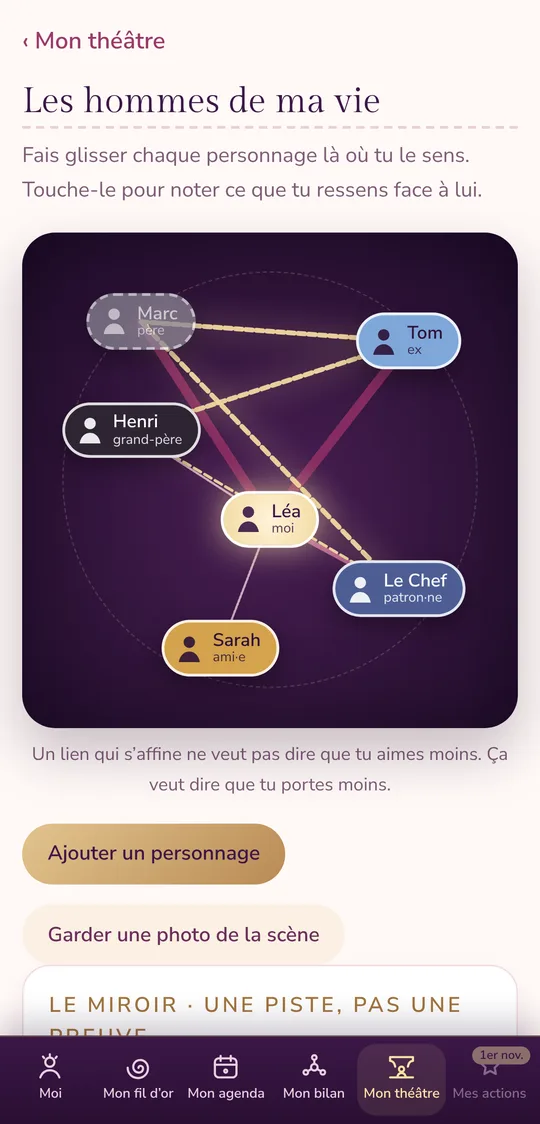
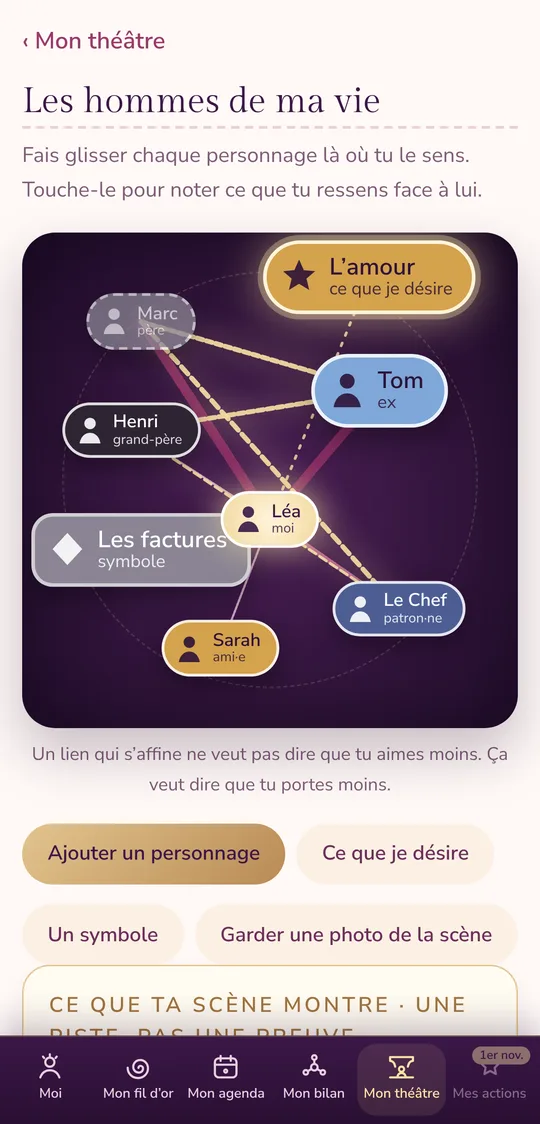
Mon théâtre : ce que je désire, mes symboles, la place que chacun prend, et ce que la scène montre (#432)
- « Ce que je désire » (l'amour, la paix…) : une étoile sur la scène, reliée à elle par un chemin doré
- « Un symbole » qu'elle écrit (la peur, les factures, les impôts…), placé et dimensionné comme elle le sent
- « La place que ça prend » : petite, moyenne, grande, très grande, pour tous les éléments (gardée dans les photos)
- « Ce que ta scène montre » : ce qui se trouve entre elle et son désir, ce qui prend le plus de place, ce qui est tout près, les liens les plus lourds ; et « Entre ce que tu veux et ce que tu vis, qu'est-ce que ta scène te dit ? », qui rejoint le schéma
- Exemple de Léa : l'amour, loin, avec Tom sur le chemin ; les factures, lourdes

Claude-Session: https://claude.ai/code/session_01Jp8dGRbiouwYvgxCdYEgCU

diff --git a/assets/pass.js b/assets/pass.js
@@ -160,8 +160,10 @@
           { id: 'pt2', nom: 'Henri', qui: 'lignee', cle: 'a:p5', couleur: '#2E2433', symptomes: ['Froid', 'Distant'] },
           { id: 'pt3', nom: 'Tom', qui: 'vie', role: 'Ex', genre: 'm', couleur: '#7FA7D9', symptomes: ['Froid', 'Qui part', 'Les hommes finissent toujours par partir'] },
           { id: 'pt4', nom: 'Le Chef', qui: 'vie', role: 'Patron·ne', genre: 'm', couleur: '#4E5D94', symptomes: ['Froid', 'Qui juge'] },
-          { id: 'pt5', nom: 'Sarah', qui: 'vie', role: 'Ami·e', genre: 'f', couleur: '#D4A24C', symptomes: ['Qui protège'] }],
-        scenes: [{ id: 'sn1', titre: 'Les hommes de ma vie', schema: 's1', cree: il(30), moi: { x: 50, y: 58 }, places: { pt1: { x: 24, y: 18, dos: true, poids: 'lourd' }, pt2: { x: 22, y: 40, poids: 'leger' }, pt3: { x: 78, y: 22, poids: 'lourd' }, pt4: { x: 76, y: 72, poids: 'present' }, pt5: { x: 40, y: 84, poids: 'leger' } },
+          { id: 'pt5', nom: 'Sarah', qui: 'vie', role: 'Ami·e', genre: 'f', couleur: '#D4A24C', symptomes: ['Qui protège'] },
+          { id: 'pt6', nom: 'L’amour', type: 'desir', couleur: '#D4A24C', symptomes: [] },
+          { id: 'pt7', nom: 'Les factures', type: 'symbole', couleur: '#8A8494', symptomes: [] }],
+        scenes: [{ id: 'sn1', titre: 'Les hommes de ma vie', schema: 's1', cree: il(30), moi: { x: 50, y: 58 }, places: { pt1: { x: 24, y: 18, dos: true, poids: 'lourd' }, pt2: { x: 22, y: 40, poids: 'leger' }, pt3: { x: 72, y: 32, poids: 'lourd', taille: '3' }, pt4: { x: 76, y: 76, poids: 'present' }, pt5: { x: 40, y: 84, poids: 'leger' }, pt6: { x: 70, y: 9, taille: '3' }, pt7: { x: 24, y: 64, taille: '3', poids: 'lourd' } },
           ressentis: { pt1: 'Je l’attends encore, comme sur le quai.', pt3: 'Il est loin, et je cours après lui.' }, devient: { pt1: ['La Petite fille', 'Gorge serrée'], pt3: ['Je cours après', 'Je donne tout'] }, filsVus: ['pt1|pt3', 'pt1|pt4', 'pt2|pt3', 'pt2|pt4'],
           photos: [{ date: il(30), moi: { x: 50, y: 60 }, places: { pt1: { x: 42, y: 40, poids: 'lourd' }, pt2: { x: 20, y: 40, poids: 'present' }, pt3: { x: 60, y: 44, poids: 'lourd' }, pt4: { x: 70, y: 70, poids: 'lourd' } }, note: 'Tout le monde est collé à moi.' }] }] };
       D.etat.notesJour = {}; D.etat.notesJour[il(4)] = { corps: ['La gorge'], sens: ['Serré'], pense: 'Elle va encore annuler' };
@@ -1723,7 +1725,13 @@
   function clair(c) { var h = String(c || '').replace('#', ''); if (h.length !== 6) return false; var r = parseInt(h.slice(0, 2), 16), g = parseInt(h.slice(2, 4), 16), b = parseInt(h.slice(4, 6), 16); return (r * 299 + g * 587 + b * 114) / 1000 > 160; }
   function genreDe(p) { if (p.qui === 'lignee' && p.cle && personne(p.cle)) return personne(p.cle).f ? 'f' : 'm'; return p.genre || ''; }
   function leLa(p) { var g = genreDe(p); return g === 'f' ? 'la' : g === 'm' ? 'le' : 'le ou la'; }
-  function lienPerso(p) { if (p.qui === 'lignee') { var q = p.cle ? personne(p.cle) : null; return q ? q.lien.replace(/^(Ton|Ta) /, '').toLowerCase() : 'ma lignée'; } return String(p.role || 'ma vie').toLowerCase(); }
+  /* Sur la scène, en plus des personnages : ce qu'elle désire (« L'amour ») et ses symboles (« La peur », « Les factures ») */
+  var TAILLES = [['1', 'Petite', .8], ['2', 'Moyenne', 1], ['3', 'Grande', 1.3], ['4', 'Très grande', 1.65]];
+  var T_DESIRS = ['L’amour', 'La paix', 'La sécurité', 'La liberté', 'L’abondance', 'Un foyer', 'La confiance', 'Ma place', 'Mon projet', 'La joie'];
+  var T_SYMBOLES = ['La peur', 'Les factures', 'Les impôts', 'L’argent', 'Le travail', 'Le temps', 'La solitude', 'Le regard des autres', 'Le passé', 'La colère'];
+  function typeDe(p) { return p && (p.type === 'desir' || p.type === 'symbole') ? p.type : 'perso'; }
+  function tailleDe(pl) { var t = TAILLES.filter(function (x) { return x[0] === String((pl && pl.taille) || '2'); })[0]; return t ? t[2] : 1; }
+  function lienPerso(p) { if (typeDe(p) === 'desir') return 'ce que je désire'; if (typeDe(p) === 'symbole') return 'symbole'; if (p.qui === 'lignee') { var q = p.cle ? personne(p.cle) : null; return q ? q.lien.replace(/^(Ton|Ta) /, '').toLowerCase() : 'ma lignée'; } return String(p.role || 'ma vie').toLowerCase(); }
   /* « ton père », « ta patronne », « ton ex » */
   function lienTon(p) {
     if (p.qui === 'lignee') { var q = p.cle ? personne(p.cle) : null; return q ? q.lien.toLowerCase() : 'quelqu’un de ta lignée'; }
@@ -1750,20 +1758,38 @@
     if (d.ph.length) t += ' Chez les deux, tu retrouves « ' + d.ph.join(' », « ') + ' ».';
     return t;
   }
+  var ICONES_T = { perso: '<circle cx="8" cy="4.5" r="3"/><path d="M2.5 15c.6-3.6 2.8-5.6 5.5-5.6s4.9 2 5.5 5.6z"/>', desir: '<path d="M8 1.2l1.9 4.3 4.6.4-3.5 3 1.1 4.6L8 11l-4.1 2.5 1.1-4.6-3.5-3 4.6-.4z"/>', symbole: '<path d="M8 1.5l6 6.5-6 6.5-6-6.5z"/>' };
   function bulleT(p, pl, sel) {
-    var c = p.couleur || '#6B2F5B';
-    return '<button type="button" class="pa-bulle' + (pl.dos ? ' dos' : '') + (sel ? ' sel' : '') + '" data-bulle="' + esc(p.id) + '" style="left:' + pl.x + '%;top:' + pl.y + '%;background:' + c + ';color:' + (clair(c) ? '#2E1338' : '#fff') + '" aria-label="' + esc(p.nom + ', ' + lienPerso(p)) + '"><svg viewBox="0 0 16 16" aria-hidden="true"><circle cx="8" cy="4.5" r="3"/><path d="M2.5 15c.6-3.6 2.8-5.6 5.5-5.6s4.9 2 5.5 5.6z"/></svg><span><b>' + esc(p.nom) + '</b><small>' + esc(lienPerso(p)) + '</small></span></button>';
+    var c = p.couleur || '#6B2F5B', ty = typeDe(p);
+    return '<button type="button" class="pa-bulle t-' + ty + (pl.dos ? ' dos' : '') + (sel ? ' sel' : '') + '" data-bulle="' + esc(p.id) + '" style="left:' + pl.x + '%;top:' + pl.y + '%;--t:' + tailleDe(pl) + ';background:' + c + ';color:' + (clair(c) ? '#2E1338' : '#fff') + '" aria-label="' + esc(p.nom + ', ' + lienPerso(p)) + '"><svg viewBox="0 0 16 16" aria-hidden="true">' + ICONES_T[ty] + '</svg><span><b>' + esc(p.nom) + '</b><small>' + esc(lienPerso(p)) + '</small></span></button>';
+  }
+  /* Ce que la scène montre : entre elle et ce qu'elle désire, qui prend le plus de place, qui est collé à elle */
+  function lectureScene(sc) {
+    var l = [], ids = Object.keys(sc.places).filter(persoT), m = sc.moi;
+    function dist(a, b) { return Math.sqrt(Math.pow(a.x - b.x, 2) + Math.pow(a.y - b.y, 2)); }
+    ids.filter(function (k) { return typeDe(persoT(k)) === 'desir'; }).forEach(function (k) {
+      var D0 = persoT(k), d = sc.places[k], dd = dist(m, d), entre = [];
+      ids.forEach(function (j) { if (j === k) return; var q = sc.places[j], vx = d.x - m.x, vy = d.y - m.y, L2 = vx * vx + vy * vy || 1, t = ((q.x - m.x) * vx + (q.y - m.y) * vy) / L2; if (t <= .08 || t >= .95) return; var px = m.x + t * vx, py = m.y + t * vy; if (dist(q, { x: px, y: py }) < 11 + 4 * tailleDe(q)) entre.push(persoT(j)); });
+      l.push((dd < 25 ? D0.nom + ' est près de toi.' : dd > 45 ? D0.nom + ' est loin de toi.' : D0.nom + ' est à mi-chemin.') + (entre.length ? ' Entre toi et ' + petit(D0.nom) + ', il y a ' + liste(entre.map(function (x) { return x.nom + (typeDe(x) === 'perso' ? ' (' + lienTon(x) + ')' : ''); })) + '.' : ''));
+    });
+    var gros = ids.filter(function (k) { return tailleDe(sc.places[k]) >= 1.3; }).sort(function (a, b) { return tailleDe(sc.places[b]) - tailleDe(sc.places[a]); });
+    if (gros.length) l.push(liste(gros.slice(0, 3).map(function (k) { return persoT(k).nom; })) + (gros.length > 1 ? ' prennent' : ' prend') + ' beaucoup de place sur ta scène.');
+    var colles = ids.filter(function (k) { return typeDe(persoT(k)) !== 'desir' && dist(m, sc.places[k]) < 20; });
+    if (colles.length) l.push('Tout près de toi : ' + liste(colles.map(function (k) { return persoT(k).nom; })) + '.');
+    var lourds = ids.filter(function (k) { return sc.places[k].poids === 'lourd'; });
+    if (lourds.length) l.push('Le lien le plus lourd : ' + liste(lourds.map(function (k) { return persoT(k).nom; })) + '.');
+    return l;
   }
   /* Les liens de toi à chacun (épaisseur = ce que ça pèse), et les fils dorés du miroir */
   function svgLiens(sc) {
     var s = '<svg class="pa-fils" viewBox="0 0 100 100" preserveAspectRatio="none" aria-hidden="true">';
-    Object.keys(sc.places).forEach(function (k) { var pl = sc.places[k], P = poidsDe(pl.poids); if (!persoT(k)) return; s += '<line class="lien" data-lien="' + esc(k) + '" x1="' + sc.moi.x + '" y1="' + sc.moi.y + '" x2="' + pl.x + '" y2="' + pl.y + '" style="stroke:' + P[3] + ';stroke-width:' + P[2] + 'px' + (P[4] ? ';stroke-dasharray:' + P[4] : '') + '"/>'; });
+    Object.keys(sc.places).forEach(function (k) { var pl = sc.places[k], P = poidsDe(pl.poids), pp = persoT(k); if (!pp) return; if (typeDe(pp) === 'desir') { s += '<line class="lien chemin" data-lien="' + esc(k) + '" x1="' + sc.moi.x + '" y1="' + sc.moi.y + '" x2="' + pl.x + '" y2="' + pl.y + '"/>'; return; } s += '<line class="lien" data-lien="' + esc(k) + '" x1="' + sc.moi.x + '" y1="' + sc.moi.y + '" x2="' + pl.x + '" y2="' + pl.y + '" style="stroke:' + P[3] + ';stroke-width:' + P[2] + 'px' + (P[4] ? ';stroke-dasharray:' + P[4] : '') + '"/>'; });
     if (!sc.sansFils) filsDores(sc).forEach(function (f) { var a = sc.places[f.a], b = sc.places[f.b], w = Math.max(poidsDe(a.poids)[2], poidsDe(b.poids)[2]); s += '<line class="or' + (sc.filNouveau === f.cle ? ' nouveau' : '') + '" pathLength="100" data-fil-a="' + esc(f.a) + '" data-fil-b="' + esc(f.b) + '" x1="' + a.x + '" y1="' + a.y + '" x2="' + b.x + '" y2="' + b.y + '" style="stroke-width:' + Math.max(2, w * .5) + 'px"/>'; });
     return s + '</svg>';
   }
   function miniScene(moi, places) {
     var ks = Object.keys(places || {});
-    return '<svg class="pa-mini-sc" viewBox="0 0 100 100" aria-hidden="true"><rect x="0" y="0" width="100" height="100" rx="8"/>' + (moi ? ks.map(function (k) { var x = places[k], P = poidsDe(x.poids); return persoT(k) ? '<line x1="' + moi.x + '" y1="' + moi.y + '" x2="' + x.x + '" y2="' + x.y + '" stroke="' + P[3] + '" stroke-width="' + (P[2] / 2.2) + '"' + (P[4] ? ' stroke-dasharray="2 3"' : '') + '/>' : ''; }).join('') : '') + ks.map(function (k) { var p = persoT(k), x = places[k]; return p ? '<circle cx="' + x.x + '" cy="' + x.y + '" r="5" fill="' + (p.couleur || '#6B2F5B') + '"/>' : ''; }).join('') + (moi ? '<circle cx="' + moi.x + '" cy="' + moi.y + '" r="6" fill="#F2D9A0" stroke="#fff" stroke-width="1.5"/>' : '') + '</svg>';
+    return '<svg class="pa-mini-sc" viewBox="0 0 100 100" aria-hidden="true"><rect x="0" y="0" width="100" height="100" rx="8"/>' + (moi ? ks.map(function (k) { var x = places[k], P = poidsDe(x.poids); return persoT(k) ? '<line x1="' + moi.x + '" y1="' + moi.y + '" x2="' + x.x + '" y2="' + x.y + '" stroke="' + P[3] + '" stroke-width="' + (P[2] / 2.2) + '"' + (P[4] ? ' stroke-dasharray="2 3"' : '') + '/>' : ''; }).join('') : '') + ks.map(function (k) { var p = persoT(k), x = places[k], r = 5 * tailleDe(x); return !p ? '' : typeDe(p) === 'symbole' ? '<rect x="' + (x.x - r) + '" y="' + (x.y - r) + '" width="' + 2 * r + '" height="' + 2 * r + '" transform="rotate(45 ' + x.x + ' ' + x.y + ')" fill="' + (p.couleur || '#6B2F5B') + '"/>' : '<circle cx="' + x.x + '" cy="' + x.y + '" r="' + r + '" fill="' + (p.couleur || '#6B2F5B') + '"' + (typeDe(p) === 'desir' ? ' stroke="#FFF4DA" stroke-width="1.5"' : '') + '/>'; }).join('') + (moi ? '<circle cx="' + moi.x + '" cy="' + moi.y + '" r="6" fill="#F2D9A0" stroke="#fff" stroke-width="1.5"/>' : '') + '</svg>';
   }
   function placeLibre(sc) { var n = Object.keys(sc.places).length, ang = n * 2.4 + .6; return { x: Math.round(50 + 30 * Math.cos(ang)), y: Math.round(50 + 30 * Math.sin(ang)), poids: 'present' }; }
   var choixT = '', photoApres = '', protoPerso = null;
@@ -1773,7 +1799,7 @@
       h = '<h1 class="pa-h1">Mon théâtre</h1><p class="pa-sous">Les personnages qui se rejouent dans ta vie. Place-les sur la scène, autour de toi, là où tu les sens.</p>';
       if (!(D.etat.vu || {}).theatre) h += '<section class="pa-carte pa-intro"><p><b>Comment ça marche.</b> Tu crées une scène, puis tes personnages : des personnes de ta lignée et des personnes de ta vie (ton patron, une amie, ton ex…), avec un nom et une couleur. Tu les places sur la scène, plus près ou plus loin de toi. Puis tu notes ce que tu ressens de chacun : comment tu le ou la vois, toi, depuis ta place. Un fil doré relie ceux de ta vie que tu ressens comme quelqu’un de ta lignée.</p><button type="button" class="pa-bt clair" data-t-vu>J’ai compris</button></section>';
       h += '<div class="pa-2col"><div><p class="pa-titre-s">1 · Mes scènes</p><button type="button" class="pa-bt or" data-t-scene-new>Nouvelle scène</button>' + (T.scenes.length ? T.scenes.map(function (s) { var n = Object.keys(s.places || {}).length, x = s.schema ? trouverSchema(s.schema) : null; return '<a class="pa-carte pa-scene-c" href="#theatre/' + esc(s.id) + '">' + miniScene(s.moi, s.places) + '<span><span class="pa-etiq">' + n + ' personnage' + (n > 1 ? 's' : '') + (s.photos && s.photos.length ? ' · ' + s.photos.length + ' photo' + (s.photos.length > 1 ? 's' : '') : '') + '</span><b>' + esc(s.titre || 'Ma scène') + '</b>' + (x ? '<small>Schéma : ' + esc(x.nom) + '</small>' : '') + '</span></a>'; }).join('') : '<p class="pa-discret">Commence par une scène : tes personnages se créent ensuite, depuis la scène. Tu peux aussi mettre en scène un schéma, depuis sa fiche.</p>') +
-        '</div><div><p class="pa-titre-s">2 · Mes personnages</p>' + (T.persos.length ? '<div class="pa-persos-l">' + T.persos.map(lignePerso).join('') + '</div>' : '<p class="pa-discret">Tes personnages se créent depuis une scène, et restent gardés pour toutes tes scènes.</p>') + '</div></div>';
+        '</div><div><p class="pa-titre-s">2 · Mes personnages</p>' + (T.persos.length ? '<div class="pa-persos-l">' + T.persos.filter(function (p) { return typeDe(p) === 'perso'; }).map(lignePerso).join('') + '</div>' + (T.persos.some(function (p) { return typeDe(p) !== 'perso'; }) ? '<p class="pa-titre-s">Mes désirs et mes symboles</p><div class="pa-persos-l">' + T.persos.filter(function (p) { return typeDe(p) !== 'perso'; }).map(lignePerso).join('') + '</div>' : '') : '<p class="pa-discret">Tes personnages se créent depuis une scène, et restent gardés pour toutes tes scènes.</p>') + '</div></div>';
       return afficher(h);
     }
     sc.places = sc.places || {}; sc.moi = sc.moi || { x: 50, y: 50 }; sc.ressentis = sc.ressentis || {}; sc.devient = sc.devient || {}; sc.photos = sc.photos || []; sc.filsVus = sc.filsVus || [];
@@ -1786,12 +1812,22 @@
       '<button type="button" class="pa-bulle moi" data-bulle="moi" style="left:' + sc.moi.x + '%;top:' + sc.moi.y + '%" aria-label="Toi"><svg viewBox="0 0 16 16" aria-hidden="true"><circle cx="8" cy="4.5" r="3"/><path d="M2.5 15c.6-3.6 2.8-5.6 5.5-5.6s4.9 2 5.5 5.6z"/></svg><span><b>' + esc(D.prenom || 'Moi') + '</b><small>moi</small></span></button>' +
       dans.map(function (p) { return bulleT(p, sc.places[p.id], sel === p); }).join('') + (dans.length ? '' : '<p class="pa-scene-vide">Ajoute tes personnages sur la scène</p>') + '</div>' +
       '<p class="pa-discret pa-sous-scene">Un lien qui s’affine ne veut pas dire que tu aimes moins. Ça veut dire que tu portes moins.</p>' +
-      '<div class="pa-outils"><button type="button" class="pa-bt or" data-t-ajout>Ajouter un personnage</button><button type="button" class="pa-bt clair" data-t-photo>Garder une photo de la scène</button></div></div><div>';
+      '<div class="pa-outils"><button type="button" class="pa-bt or" data-t-ajout>Ajouter un personnage</button><button type="button" class="pa-bt clair" data-t-elem="desir">Ce que je désire</button><button type="button" class="pa-bt clair" data-t-elem="symbole">Un symbole</button><button type="button" class="pa-bt clair" data-t-photo>Garder une photo de la scène</button></div></div><div>';
     if (fn) h += '<section class="pa-carte pa-tiens-c"><p class="pa-etiq">Un fil doré vient d’apparaître</p><p>' + esc(phraseMiroir(fn)) + '</p><label for="pa-t-prise">Qu’est-ce que ça te fait de voir ça ?</label><textarea id="pa-t-prise" maxlength="600" placeholder="Je vois que je cherche chez Tom ce que je n’ai pas eu de mon père…"></textarea><div class="pa-outils"><button type="button" class="pa-bt or" data-t-prise>Je le note</button><button type="button" class="pa-lien-s" data-t-prise-plus-tard>Plus tard</button></div>' + (sc.schema ? '<p class="pa-discret">Ta réponse rejoint ton schéma comme une prise de conscience.</p>' : '') + '</section>';
-    if (sel) {
+    var lec = lectureScene(sc);
+    if (lec.length) h += '<section class="pa-carte pa-lecture"><p class="pa-etiq">Ce que ta scène montre · une piste, pas une preuve</p><ul class="pa-echos">' + lec.map(function (t) { return '<li>' + esc(t) + '</li>'; }).join('') + '</ul><label for="pa-t-genere">Entre ce que tu veux et ce que tu vis, qu’est-ce que ta scène te dit ?</label><textarea id="pa-t-genere" maxlength="600" placeholder="Je veux l’amour, mais je garde mes ex tout près de moi…"></textarea><div class="pa-outils"><button type="button" class="pa-bt clair" data-t-genere>Je le note</button></div></section>';
+    var tailleH = function (pl0) { return '<p class="pa-lab">La place que ça prend</p><div class="pa-puces" data-groupe="t-taille">' + TAILLES.map(function (x) { return '<button type="button" data-v="' + x[0] + '" aria-pressed="' + (String(pl0.taille || '2') === x[0]) + '">' + esc(x[1]) + '</button>'; }).join('') + '</div>'; };
+    if (sel && typeDe(sel) !== 'perso') {
+      var ple = sc.places[sel.id];
+      h += '<section class="pa-carte pa-face"><p class="pa-etiq">' + (typeDe(sel) === 'desir' ? 'Ce que je désire' : 'Symbole') + ' · ' + esc(sel.nom) + '</p>' + tailleH(ple) +
+        (typeDe(sel) === 'symbole' ? '<p class="pa-lab">Ça pèse comment aujourd’hui ?</p><div class="pa-puces" data-groupe="t-poids">' + POIDS.map(function (x) { return '<button type="button" data-v="' + x[0] + '" aria-pressed="' + ((ple.poids || 'present') === x[0]) + '"><i class="pa-trait" style="border-top:' + Math.max(1.5, x[2] * .6) + 'px ' + (x[4] ? 'dashed' : 'solid') + ' ' + x[3] + '"></i>' + esc(x[1]) + '</button>'; }).join('') + '</div>' : '<p class="pa-discret">Un chemin doré va de toi à ce que tu désires. Regarde ce qui se trouve dessus.</p>') +
+        '<label for="pa-t-ress">' + (typeDe(sel) === 'desir' ? 'Qu’est-ce que tu ressens en regardant ' + esc(petit(sel.nom)) + ', à cette place ?' : 'Qu’est-ce que tu ressens face à ' + esc(petit(sel.nom)) + ', à cette place ?') + '</label><textarea id="pa-t-ress" data-t-ress="' + esc(sel.id) + '" maxlength="600">' + esc(sc.ressentis[sel.id] || '') + '</textarea>' +
+        '<div class="pa-outils"><button type="button" class="pa-bt clair" data-t-elem-mod="' + esc(sel.id) + '">Modifier</button><button type="button" class="pa-lien-s" data-t-retirer="' + esc(sel.id) + '">Retirer de la scène</button></div></section>';
+    }
+    if (sel && typeDe(sel) === 'perso') {
       var pl = sc.places[sel.id];
       h += '<section class="pa-carte pa-face"><p class="pa-etiq">Face à ' + esc(sel.nom) + ' · ' + esc(lienPerso(sel)) + '</p>' + (function () { var d = descPerso(sel); return (d.mots.length ? '<p class="pa-discret" style="margin-top:0">Tu ' + leLa(sel) + ' ressens ' + esc(liste(d.mots.map(petit))) + '.' + (d.ph.length ? ' Tu retrouves chez ' + (genreDe(sel) === 'f' ? 'elle' : 'lui') + ' « ' + esc(d.ph.join(' », « ')) + ' ».' : '') + '</p>' : d.ph.length ? '<p class="pa-discret" style="margin-top:0">Tu retrouves chez ' + (genreDe(sel) === 'f' ? 'elle' : 'lui') + ' « ' + esc(d.ph.join(' », « ')) + ' ».</p>' : ''); })() +
-        '<p class="pa-lab">Ce lien pèse comment aujourd’hui ?</p><div class="pa-puces" data-groupe="t-poids">' + POIDS.map(function (x) { return '<button type="button" data-v="' + x[0] + '" aria-pressed="' + ((pl.poids || 'present') === x[0]) + '"><i class="pa-trait" style="border-top:' + Math.max(1.5, x[2] * .6) + 'px ' + (x[4] ? 'dashed' : 'solid') + ' ' + x[3] + '"></i>' + esc(x[1]) + '</button>'; }).join('') + '</div>' +
+        tailleH(pl) + '<p class="pa-lab">Ce lien pèse comment aujourd’hui ?</p><div class="pa-puces" data-groupe="t-poids">' + POIDS.map(function (x) { return '<button type="button" data-v="' + x[0] + '" aria-pressed="' + ((pl.poids || 'present') === x[0]) + '"><i class="pa-trait" style="border-top:' + Math.max(1.5, x[2] * .6) + 'px ' + (x[4] ? 'dashed' : 'solid') + ' ' + x[3] + '"></i>' + esc(x[1]) + '</button>'; }).join('') + '</div>' +
         '<label for="pa-t-ress">Qu’est-ce que tu ressens face à ' + esc(sel.nom) + ', à cette place ?</label><textarea id="pa-t-ress" data-t-ress="' + esc(sel.id) + '" maxlength="600" placeholder="Je me sens petite, j’ai envie de reculer…">' + esc(sc.ressentis[sel.id] || '') + '</textarea>' +
         '<p class="pa-lab">Ce que je deviens face à ' + (genreDe(sel) === 'f' ? 'elle' : genreDe(sel) === 'm' ? 'lui' : 'lui ou elle') + '</p>' + puces('t-dev', devientProposes().concat((sc.devient[sel.id] || []).filter(function (t) { return devientProposes().indexOf(t) < 0; })), sc.devient[sel.id] || [], true) +
         '<div class="pa-puces"><button type="button" data-t-dos aria-pressed="' + !!pl.dos + '">Il ou elle me tourne le dos</button></div><div class="pa-outils"><button type="button" class="pa-bt clair" data-t-perso="' + esc(sel.id) + '">Ce que je ressens de ' + (genreDe(sel) === 'f' ? 'elle' : genreDe(sel) === 'm' ? 'lui' : 'lui ou elle') + '</button><button type="button" class="pa-lien-s" data-t-retirer="' + esc(sel.id) + '">Retirer de la scène</button></div></section>';
@@ -1807,7 +1843,7 @@
     brancherScene(sc);
     if (photoApres === sc.id) { photoApres = ''; photoScene(sc); }
   }
-  function lignePerso(p) { return '<button type="button" class="pa-perso-l" data-t-perso="' + esc(p.id) + '"><i style="background:' + esc(p.couleur || '#6B2F5B') + '"></i><span><b>' + esc(p.nom) + '</b><small>' + esc(lienPerso(p)) + (descPerso(p).mots.length ? ' · je ' + leLa(p) + ' ressens ' + esc(liste(descPerso(p).mots.slice(0, 2).map(petit))) : '') + '</small></span></button>'; }
+  function lignePerso(p) { return '<button type="button" class="pa-perso-l t-' + typeDe(p) + '" data-t-' + (typeDe(p) === 'perso' ? 'perso' : 'elem-mod') + '="' + esc(p.id) + '"><i style="background:' + esc(p.couleur || '#6B2F5B') + '"></i><span><b>' + esc(p.nom) + '</b><small>' + esc(lienPerso(p)) + (descPerso(p).mots.length ? ' · je ' + leLa(p) + ' ressens ' + esc(liste(descPerso(p).mots.slice(0, 2).map(petit))) : '') + '</small></span></button>'; }
   /* Glisser les bulles : la place se garde en % de la scène, les liens suivent */
   function brancherScene(sc) {
     var z = document.getElementById('pa-scene'); if (!z) return;
@@ -1870,7 +1906,7 @@
     function tiens(v) {
       var zt = z.querySelector('#pa-tiens'), autres = T.persos.filter(function (x) { return x !== p && (x.symptomes || []).indexOf(v) >= 0; });
       if (autres.length) { zt.innerHTML = '<button type="button" class="pa-tiens" data-t-tiens>Tiens… tu as déjà ressenti ça pour quelqu’un.</button><p class="pa-tiens-nom" hidden>' + esc(liste(autres.map(function (x) { return x.nom + ', ' + lienTon(x); }))) + ' : « ' + esc(petit(v)) + ' ».</p>'; return; }
-      var aut = T.persos.filter(function (x) { return x !== p; });
+      var aut = T.persos.filter(function (x) { return x !== p && typeDe(x) === 'perso'; });
       zt.innerHTML = '<div class="pa-tiens-q"><p>Qui d’autre tu sens comme ça, dans ta vie ou dans ta lignée ?</p>' + (aut.length ? '<div class="pa-puces pa-exemples">' + aut.map(function (x) { return '<button type="button" data-t-aussi="' + esc(x.id) + '" data-v2="' + esc(v) + '">' + esc(x.nom) + '</button>'; }).join('') + '</div>' : '') + '<button type="button" class="pa-lien-s" data-t-aussi-new="' + esc(v) + '">Créer un nouveau personnage</button></div>';
     }
     z.addEventListener('change', function (e) {
@@ -1889,10 +1925,33 @@
     });
     function placerSi(pp) { if (!pourScene) return; var sc = sceneT(pourScene); if (sc && !sc.places[pp.id]) { sc.places[pp.id] = placeLibre(sc); choixT = pp.id; } }
   }
+  function ouvrirElementT(id, type, pourScene) {
+    var T = theatre(), p = id ? persoT(id) : null, neuf = !p; type = p ? typeDe(p) : type;
+    if (neuf) p = { id: 'pt' + Date.now().toString(36), nom: '', type: type, couleur: type === 'desir' ? '#D4A24C' : '#8A8494', symptomes: [] };
+    var deja = T.persos.filter(function (x) { return typeDe(x) === type && x !== p && pourScene && !sceneT(pourScene).places[x.id]; });
+    var SUG = (type === 'desir' ? T_DESIRS : T_SYMBOLES).filter(function (t) { return !T.persos.some(function (x) { return x.nom === t; }); });
+    var h = '<p class="pa-etiq">' + (type === 'desir' ? 'Ce que je désire' : 'Un symbole') + '</p><h2>' + (type === 'desir' ? 'Qu’est-ce que tu veux dans ta vie ?' : 'Qu’est-ce qui prend de la place dans ta vie ?') + '</h2>' +
+      '<p class="pa-discret">' + (type === 'desir' ? 'Place-le sur la scène, là où tu le sens aujourd’hui : près de toi, ou loin. Tu verras ce qui se trouve entre toi et lui.' : 'Une peur, les factures, le travail… C’est toi qui l’écris. Place-le là où tu le sens, et donne-lui la taille qu’il prend.') + '</p>' +
+      (neuf && deja.length ? '<p class="pa-lab">Déjà créés</p><div class="pa-persos-l">' + deja.map(function (x) { return '<button type="button" class="pa-perso-l" data-t-place-el="' + esc(x.id) + '"><i style="background:' + esc(x.couleur) + '"></i><span><b>' + esc(x.nom) + '</b></span></button>'; }).join('') + '</div>' : '') +
+      '<form class="pa-form" novalidate onsubmit="return false"><label for="pa-el-nom">' + (type === 'desir' ? 'Ce que je désire' : 'Mon symbole') + '</label><input id="pa-el-nom" maxlength="40" value="' + esc(p.nom) + '" placeholder="' + (type === 'desir' ? 'L’amour, la paix, mon projet…' : 'La peur, les factures, les impôts…') + '">' +
+      (SUG.length ? '<div class="pa-debuts">' + SUG.map(function (t) { return '<button type="button" data-el-sug="' + esc(t) + '">' + esc(t) + '</button>'; }).join('') + '</div>' : '') +
+      '<p class="pa-lab">Sa couleur</p><div class="pa-couleurs">' + COULEURS_T.map(function (c) { return '<button type="button" data-t-coul="' + c[0] + '" aria-pressed="' + (p.couleur === c[0]) + '" style="background:' + c[0] + '" aria-label="' + c[1] + '"></button>'; }).join('') + '</div>' +
+      '<div class="pa-outils"><button type="button" class="pa-bt or" data-el-ok>' + (neuf && pourScene ? 'Placer sur la scène' : 'C’est noté') + '</button>' + (neuf ? '' : '<button type="button" class="pa-lien-s" data-el-suppr>Supprimer</button>') + '</div><p class="pa-erreur" role="alert"></p></form>';
+    var z = feuille(h, { enregistrer: function () { return lire(); } });
+    function lire() { var n = z.querySelector('#pa-el-nom').value.trim(); if (!n) { z.querySelector('.pa-erreur').textContent = 'Écris-le en quelques mots.'; return false; } p.nom = n.slice(0, 40); if (T.persos.indexOf(p) < 0) T.persos.push(p); return true; }
+    function placer(x) { var sc = pourScene && sceneT(pourScene); if (sc && !sc.places[x.id]) { var pl = placeLibre(sc); if (type === 'desir') { pl.x = 85; pl.y = 12; } sc.places[x.id] = pl; choixT = x.id; } }
+    z.addEventListener('click', function (e) {
+      var sg = e.target.closest('[data-el-sug]'); if (sg) { z.querySelector('#pa-el-nom').value = sg.getAttribute('data-el-sug'); return; }
+      var c = e.target.closest('[data-t-coul]'); if (c) { p.couleur = c.getAttribute('data-t-coul'); z.querySelectorAll('[data-t-coul]').forEach(function (b) { b.setAttribute('aria-pressed', b === c); }); return; }
+      var pe = e.target.closest('[data-t-place-el]'); if (pe) { placer(persoT(pe.getAttribute('data-t-place-el'))); sauver(); fermerFeuille(); return; }
+      if (e.target.closest('[data-el-ok]')) { if (!lire()) return; placer(p); sauver(); fermerFeuille(); return; }
+      if (e.target.closest('[data-el-suppr]') && confirm('Supprimer de toutes tes scènes ?')) { T.persos = T.persos.filter(function (x) { return x !== p; }); T.scenes.forEach(function (s0) { delete (s0.places || {})[p.id]; }); sauver(); fermerFeuille(); }
+    });
+  }
   function ajouterSurScene(sc) {
-    var hors = theatre().persos.filter(function (p) { return !sc.places[p.id]; });
+    var hors = theatre().persos.filter(function (p) { return !sc.places[p.id] && typeDe(p) === 'perso'; });
     if (!hors.length) return ouvrirPersoT('new', sc.id);
-    var z = feuille('<p class="pa-etiq">Ajouter sur la scène</p><h2>Qui vient sur la scène ?</h2><div class="pa-persos-l">' + hors.map(function (p) { return lignePerso(p).replace('data-t-perso=', 'data-t-place='); }).join('') + '</div><button type="button" class="pa-bt or" data-t-nouveau>Créer un nouveau personnage</button>');
+    var z = feuille('<p class="pa-etiq">Ajouter sur la scène</p><h2>Qui vient sur la scène ?</h2><div class="pa-persos-l">' + hors.map(function (p) { return lignePerso(p).replace(/data-t-(perso|elem-mod)=/, 'data-t-place='); }).join('') + '</div><button type="button" class="pa-bt or" data-t-nouveau>Créer un nouveau personnage</button>');
     z.addEventListener('click', function (e) {
       var b = e.target.closest('[data-t-place]'); if (b) { var id = b.getAttribute('data-t-place'); sc.places[id] = placeLibre(sc); choixT = id; sauver(); fermerFeuille(); return; }
       if (e.target.closest('[data-t-nouveau]')) ouvrirPersoT('new', sc.id);
@@ -1931,6 +1990,8 @@
     if (e.target.closest('[data-t-vu]')) { D.etat.vu = D.etat.vu || {}; D.etat.vu.theatre = iso(new Date()); sauver(); rafraichir(); return; }
     if (e.target.closest('[data-t-scene-new]')) { nouvelleScene(); return; }
     var tp = e.target.closest('[data-t-perso]'); if (tp) { ouvrirPersoT(tp.getAttribute('data-t-perso'), sc ? sc.id : ''); return; }
+    var em = e.target.closest('[data-t-elem-mod]'); if (em) { ouvrirElementT(em.getAttribute('data-t-elem-mod'), '', sc ? sc.id : ''); return; }
+    var ne = e.target.closest('[data-t-elem]'); if (ne && sc) { ouvrirElementT('', ne.getAttribute('data-t-elem'), sc.id); return; }
     if (!sc) return;
     if (e.target.closest('[data-t-ajout]')) { ajouterSurScene(sc); return; }
     if (e.target.closest('[data-t-photo]')) { photoScene(sc); return; }
@@ -1940,6 +2001,12 @@
       var t = (document.getElementById('pa-t-prise') || {}).value || ''; t = t.trim();
       if (t) { var pr = { date: iso(new Date()), texte: t.slice(0, 600), source: 'Mon théâtre · ' + (sc.titre || '') }, x = sc.schema ? trouverSchema(sc.schema) : null; if (x) { x.prises = x.prises || []; x.prises.push(pr); } else { sc.prises = sc.prises || []; sc.prises.push(pr); } }
       sc.filNouveau = ''; sauver(); rafraichir(); return;
+    }
+    if (e.target.closest('[data-t-genere]')) {
+      var tg = ((document.getElementById('pa-t-genere') || {}).value || '').trim(); if (!tg) return;
+      var prg = { date: iso(new Date()), texte: tg.slice(0, 600), source: 'Mon théâtre · ' + (sc.titre || '') }, xs = sc.schema ? trouverSchema(sc.schema) : null;
+      if (xs) { xs.prises = xs.prises || []; xs.prises.push(prg); } else { sc.prises = sc.prises || []; sc.prises.push(prg); }
+      sauver(); var bt = e.target.closest('[data-t-genere]'); bt.textContent = '✓ C’est noté'; bt.disabled = true; return;
     }
     if (e.target.closest('[data-t-prise-plus-tard]')) { sc.filNouveau = ''; sauver(); rafraichir(); return; }
     var lb = e.target.closest('[data-t-liberer]'); if (lb) { var A = persoT(lb.getAttribute('data-t-liberer')); protoPerso = A ? { cle: A.cle, nom: A.nom, lien: lienTon(A), f: genreDe(A) === 'f' } : null; location.hash = 'actions/lignee' + (sc.schema ? '/' + sc.schema : ''); return; }
@@ -1956,6 +2023,7 @@
     if (e.target.hasAttribute('data-t-schema')) { sc.schema = e.target.value; sauver(); return; }
     var g = e.target.closest('[data-groupe]'); if (!g || !choixT || !sc.places[choixT]) return;
     var n = g.getAttribute('data-groupe');
+    if (n === 't-taille') { sc.places[choixT].taille = lirePuces(g.parentNode, 't-taille')[0] || '2'; sauver(); rafraichir(); return; }
     if (n === 't-poids') { sc.places[choixT].poids = lirePuces(g.parentNode, 't-poids')[0] || 'present'; sc.poidsMaj = iso(new Date()); sauver(); rafraichir(); }
     else if (n === 't-dev') { sc.devient[choixT] = lirePuces(g.parentNode, 't-dev'); sauver(); }
   });

diff --git a/pass.html b/pass.html
@@ -409,11 +409,17 @@
     .pa-fils{position:absolute;inset:0;width:100%;height:100%;pointer-events:none}
     .pa-fils line{stroke:#F2D9A0;stroke-width:.6;stroke-dasharray:1.6 1.2;opacity:.9;vector-effect:non-scaling-stroke}
     .pa-fils line{stroke-width:2}
-    .pa-bulle{position:absolute;transform:translate(-50%,-50%);display:flex;align-items:center;gap:.35rem;padding:.35rem .7rem .35rem .45rem;border-radius:99px;border:2px solid rgba(255,255,255,.85);box-shadow:0 6px 16px rgba(0,0,0,.35);font:inherit;cursor:grab;touch-action:none;max-width:44%;text-align:left;line-height:1.1}
+    .pa-bulle{position:absolute;transform:translate(-50%,-50%) scale(var(--t,1));display:flex;align-items:center;gap:.35rem;padding:.35rem .7rem .35rem .45rem;border-radius:99px;border:2px solid rgba(255,255,255,.85);box-shadow:0 6px 16px rgba(0,0,0,.35);font:inherit;cursor:grab;touch-action:none;max-width:44%;text-align:left;line-height:1.1}
     .pa-bulle svg{flex:none;width:22px;height:22px;fill:currentColor;opacity:.9}
     .pa-bulle span{display:flex;flex-direction:column;min-width:0}
     .pa-bulle b{font-size:.82rem;white-space:nowrap;overflow:hidden;text-overflow:ellipsis}
     .pa-bulle small{font-size:.62rem;opacity:.85;white-space:nowrap;overflow:hidden;text-overflow:ellipsis}
+    .pa-bulle.t-desir{border-color:#FFF4DA;box-shadow:0 0 0 3px rgba(242,217,160,.35),0 0 26px rgba(242,217,160,.65)}
+    .pa-bulle.t-symbole{border-radius:12px;border-style:solid;border-color:rgba(255,255,255,.6)}
+    .pa-fils line.chemin{stroke:#F2D9A0;stroke-width:2px;stroke-dasharray:2 6;stroke-linecap:round;opacity:.85;vector-effect:non-scaling-stroke}
+    .pa-lecture{border-color:#E2C48E;background:#FFFBF2}.pa-lecture label{display:block;font-weight:600;margin:.6rem 0 .35rem}
+    .pa-lecture textarea{width:100%;box-sizing:border-box;min-height:80px;padding:.65rem .8rem;border:1.5px solid #EBCFD5;border-radius:14px;font:inherit;background:#fff;color:var(--encre)}
+    .pa-perso-l.t-desir i{box-shadow:0 0 0 2px #F2D9A0}.pa-perso-l.t-symbole i{border-radius:6px}
     .pa-bulle.moi{background:radial-gradient(circle,#FFF4DA,#F2D9A0);color:#3B1747;border-color:#fff;box-shadow:0 0 24px rgba(242,217,160,.7);z-index:2}
     .pa-bulle.dos{border-style:dashed;opacity:.75}
     .pa-bulle.sel{outline:3px solid #F2D9A0;outline-offset:2px}
@@ -529,7 +535,7 @@
   <script src="assets/numerologie.js"></script>
   <script src="assets/astronomy.browser.min.js"></script>
   <script src="assets/pass-enquete.js?v=11"></script>
-  <script src="assets/pass.js?v=24"></script>
+  <script src="assets/pass.js?v=25"></script>
   <script src="assets/spirale-aime.js"></script>
 </body>
 </html>
